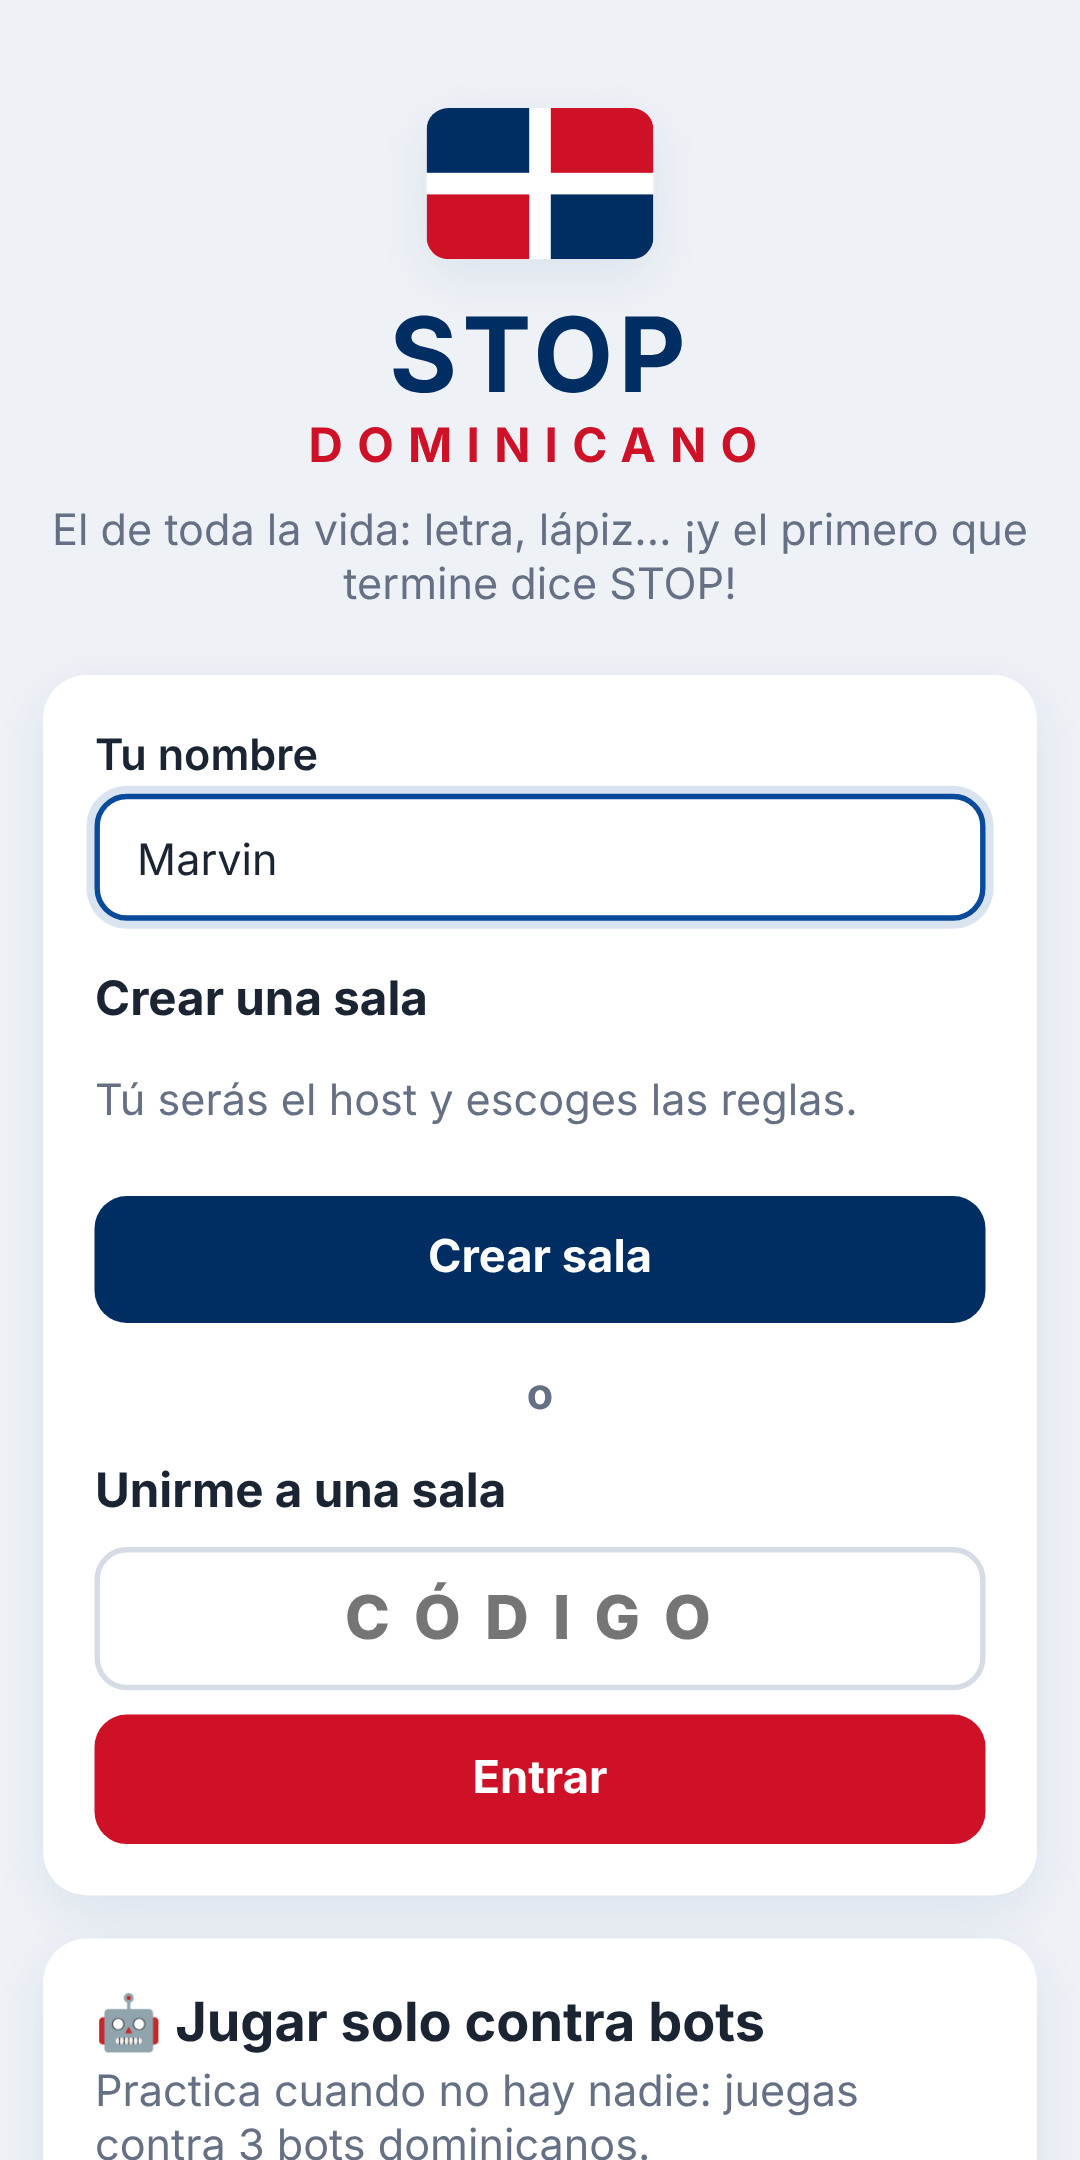
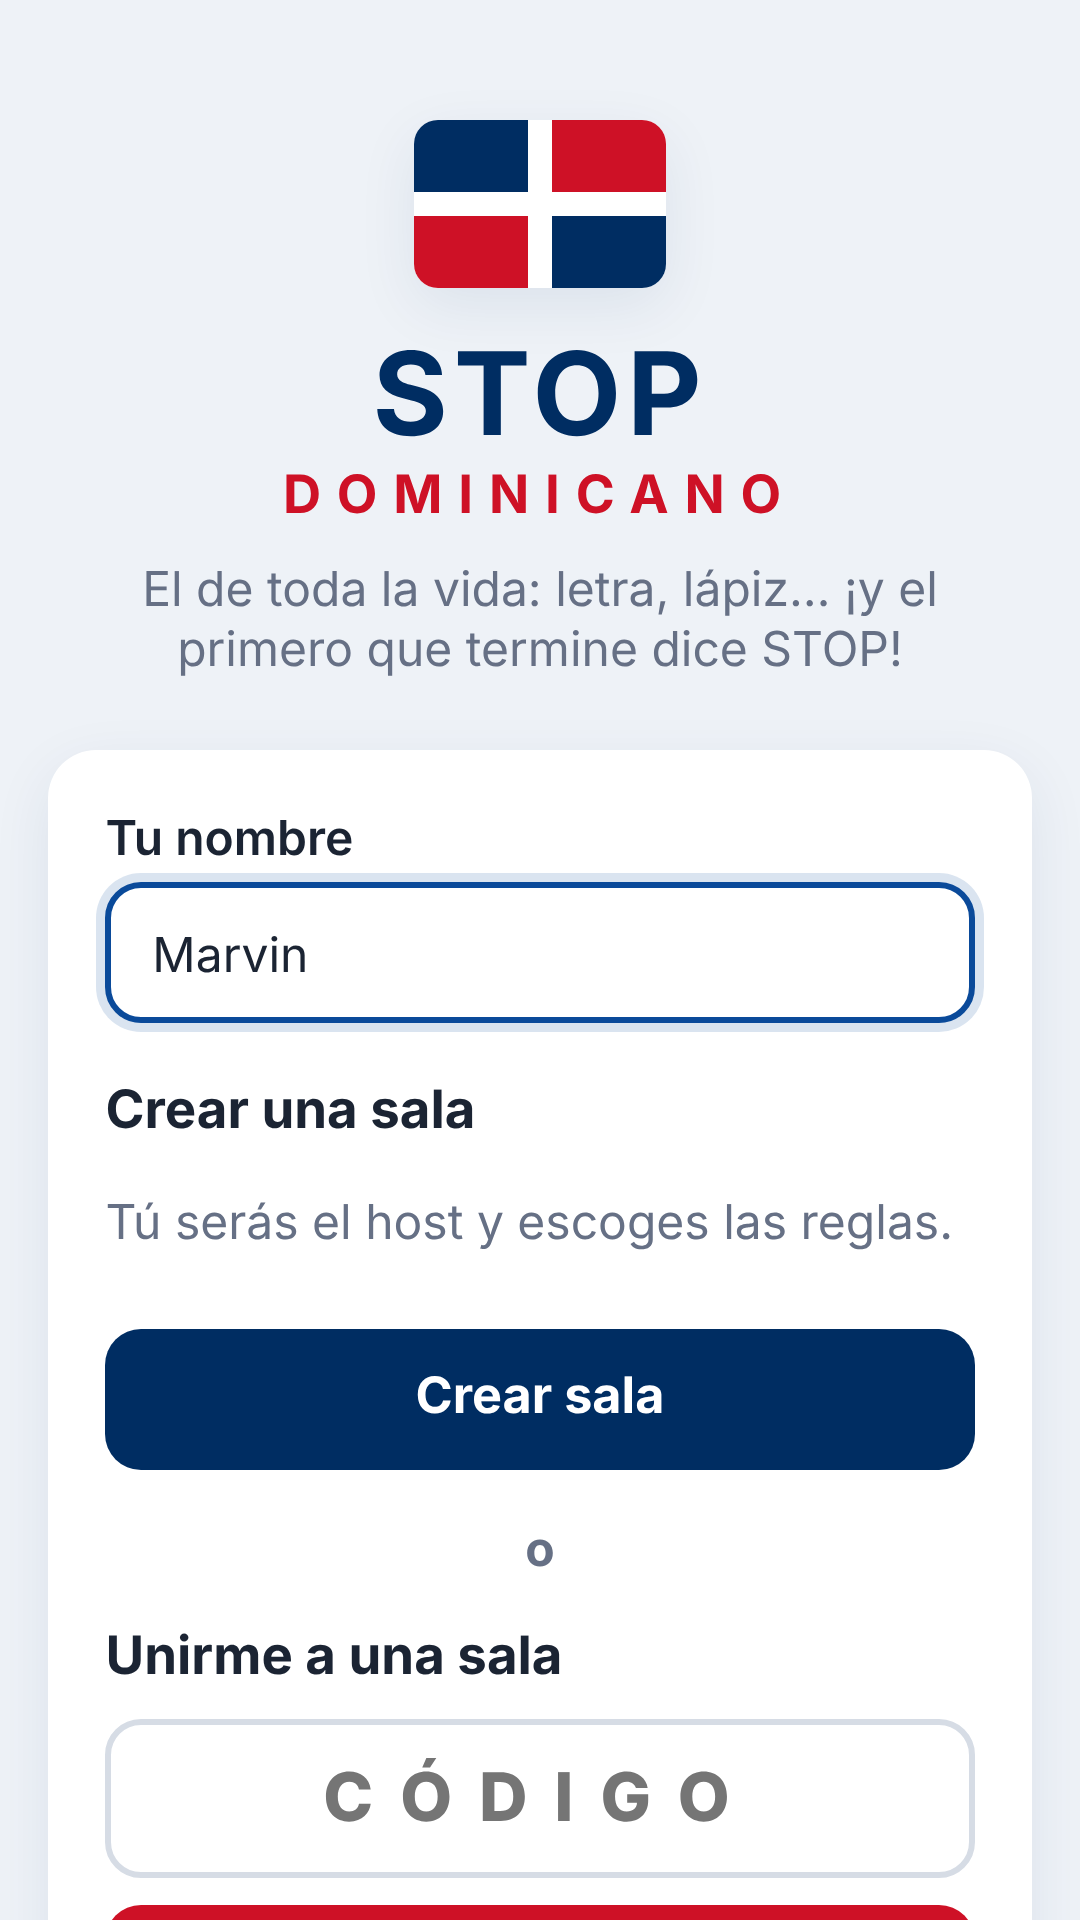
Play Store: capturas 9:16 (1080x1920) y ajuste de la descripción
Claude-Session: https://claude.ai/code/session_012rCXWw1rFHf5rpJi8X4KTg

diff --git a/play-store/FICHA.md b/play-store/FICHA.md
@@ -45,7 +45,7 @@ Sale una letra y todos corren a llenar Nombre, Apellido, Ciudad o País, Animal,
 • Escoge el tiempo de cada ronda, cuántas rondas, las categorías (Pelotero, Artista, Marca, Carro y más) y las letras que pueden salir.
 • Cierra la sala para que nadie más entre.
 
-Sin registro, sin anuncios y sin pedir datos personales. Solo escribe tu nombre y ¡a jugar!
+Sin registro ni anuncios: solo escribe tu nombre y ¡a jugar!
 
 Hecho en República Dominicana por SoportesRD.
 ```
